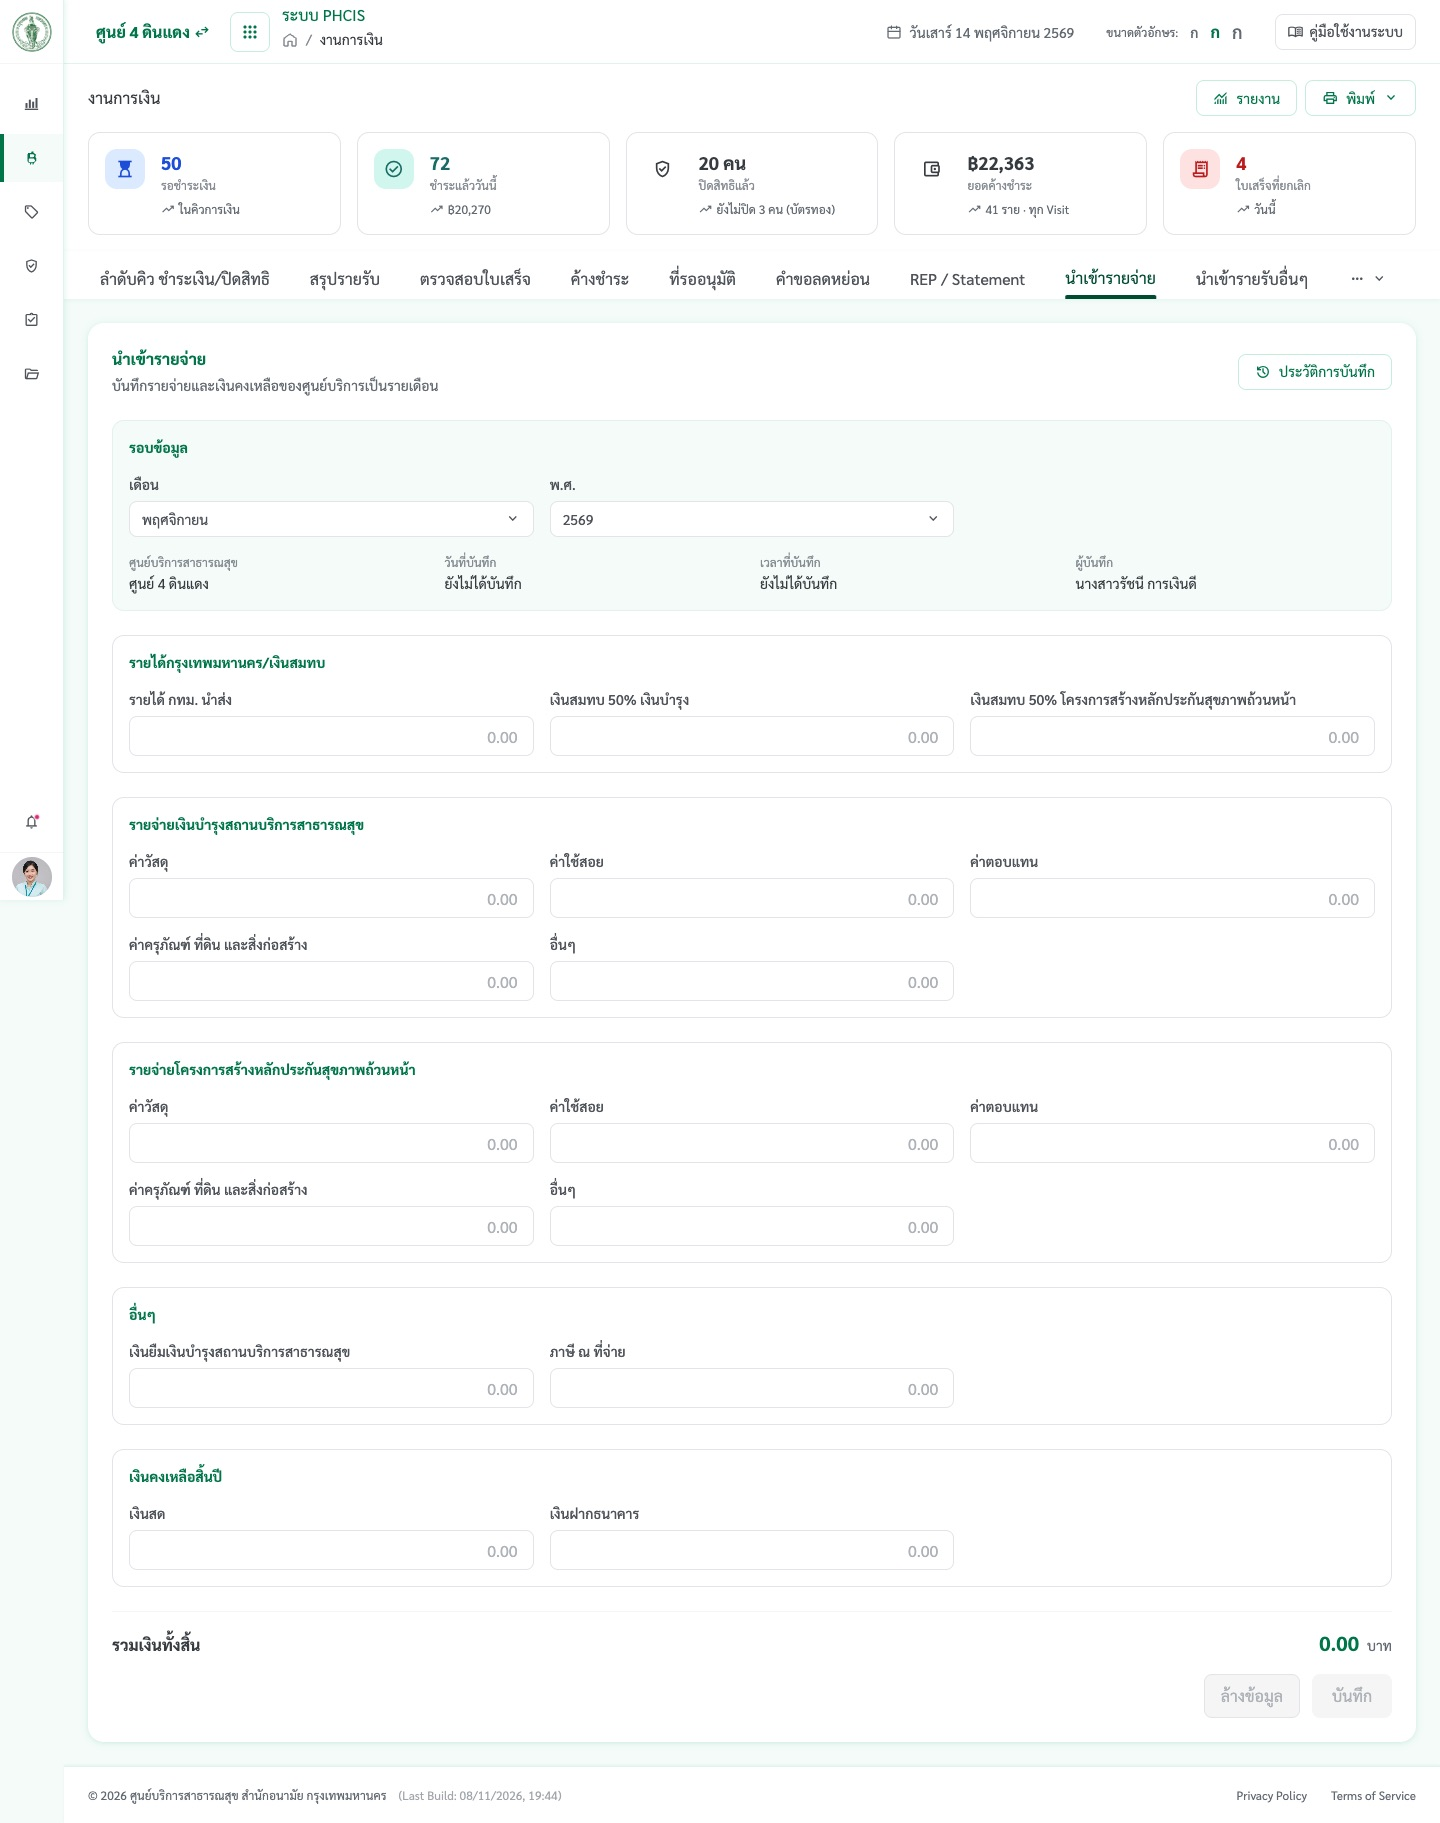
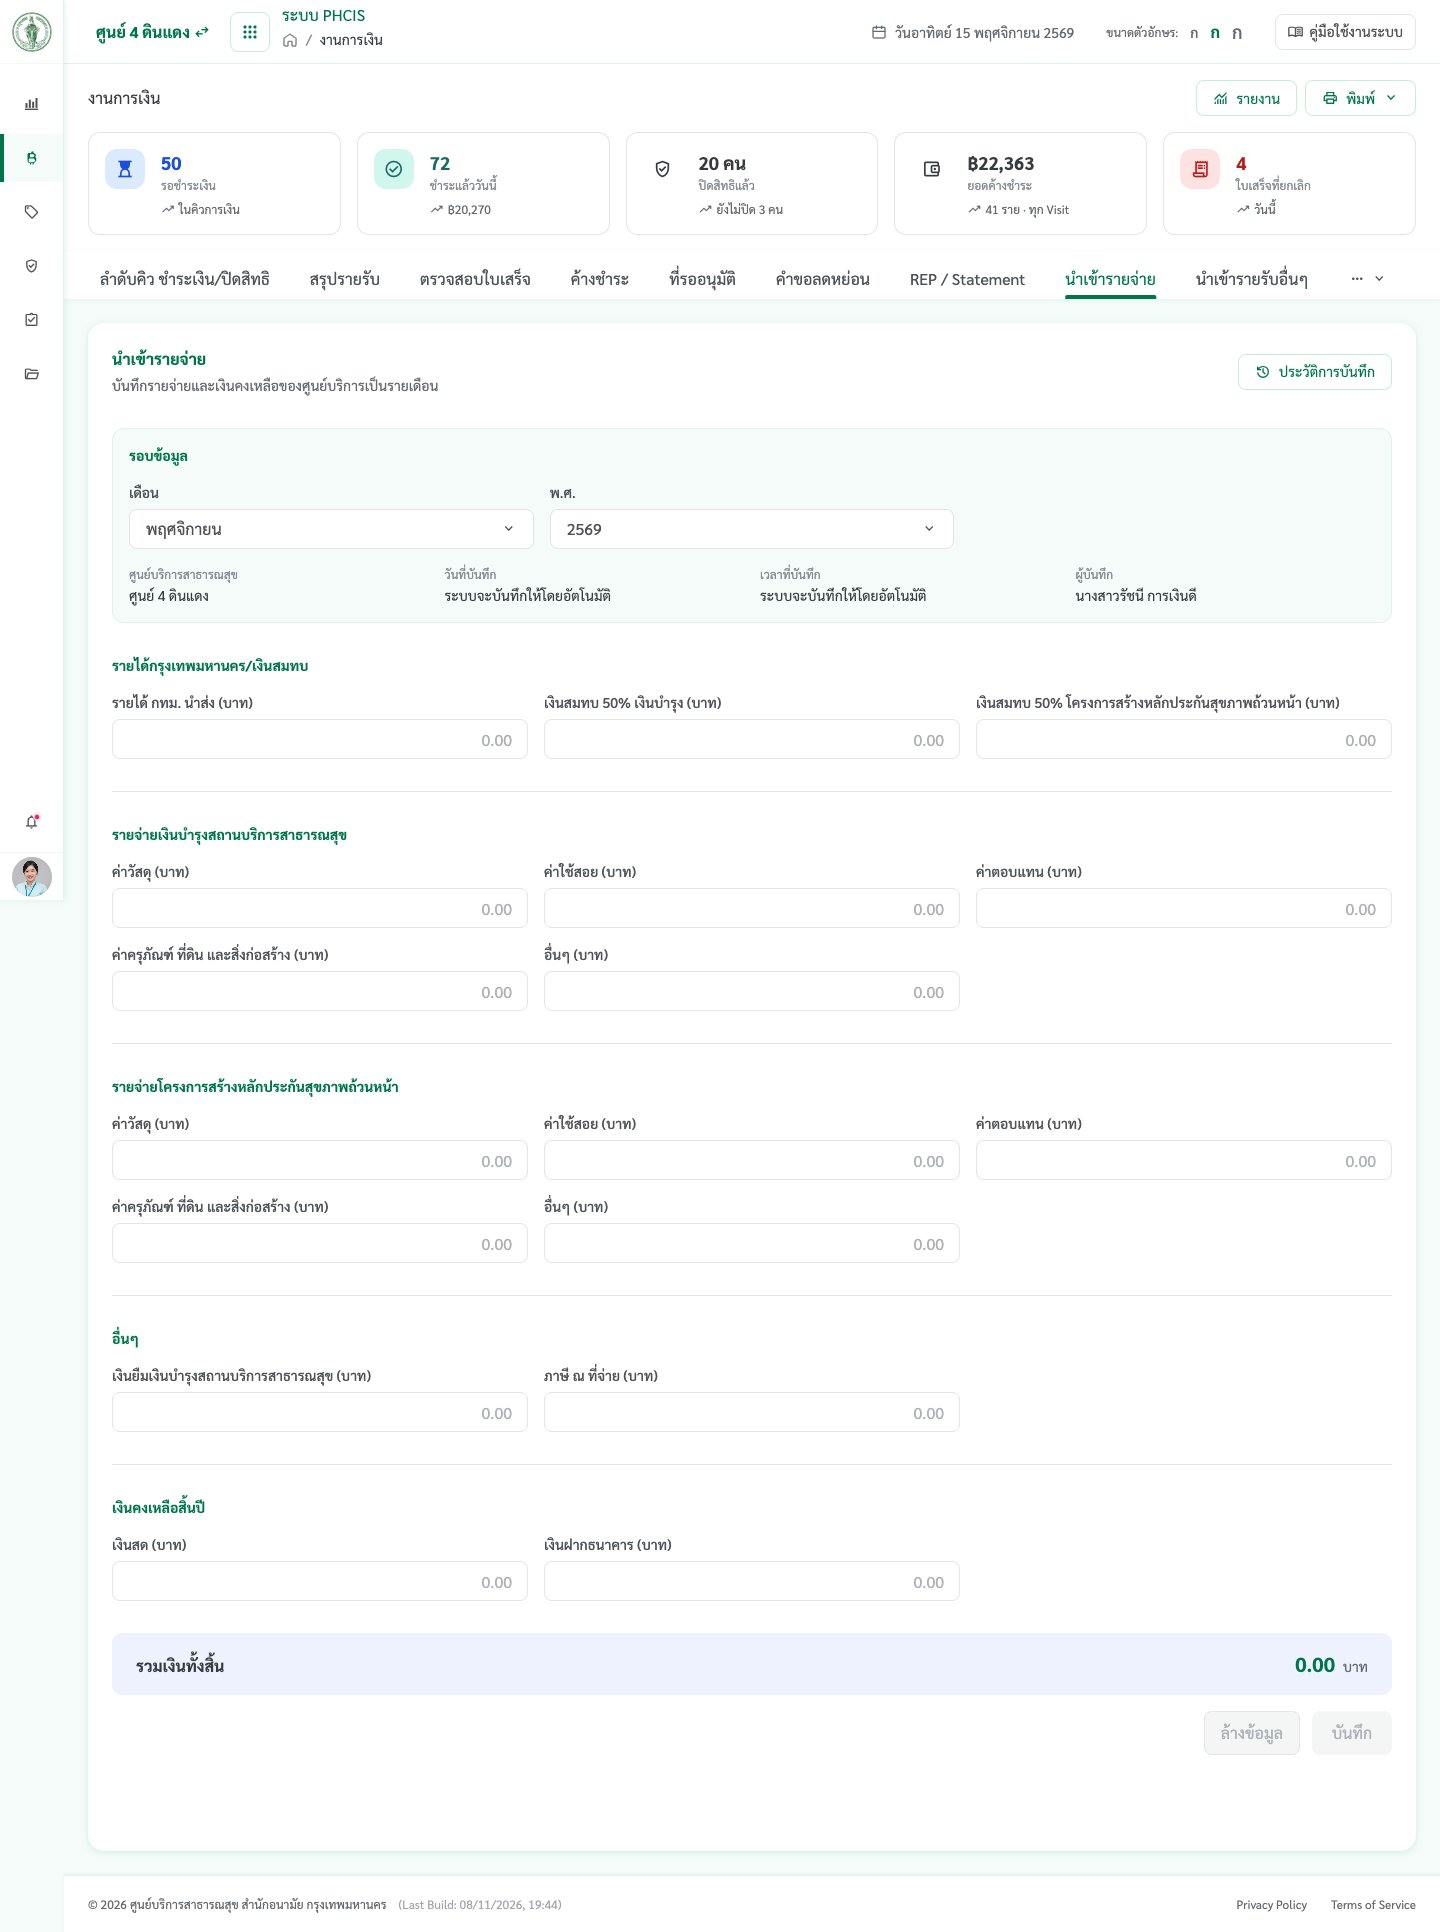
ทะเบียนปรับปรุง: ซ่อน dropdown คลินิก (มีใน side menu) · การเงิน ข้อ 18: ภาพฟอร์มนำเข้ารายจ่าย/รายรับอื่นๆ ใหม่ (ขีดคั่นกลุ่ม · รวมเงินพื้น indigo · เดือน/พ.ศ. สูงเท่าช่องเงิน) (ผู้ใช้ 15 พ.ย. 69)

diff --git a/tor-updates-nav.js b/tor-updates-nav.js
@@ -82,6 +82,8 @@
   };
   document.addEventListener('click', function (e) { if (!host.contains(e.target)) all.forEach(function (o) { o.close(); }); });
   var sc = makeSelect('คลินิก', 'tn-clinic');
+  /* ไม่แสดงตัวเลือกคลินิก — side menu มีรายการคลินิกอยู่แล้ว (ผู้ใช้ 15 พ.ย. 69) · คงไว้ภายในเพื่อกรองรายการวันที่ */
+  host.querySelector('#tn-clinic').parentElement.style.display = 'none';
   var sd = makeSelect('วันที่ปรับปรุง', 'tn-date');
   var datesOf = function (clinic) { return TOR_UPDATES.filter(function (r) { return r.clinic === clinic; }).map(function (r) { return { value: r.href, label: r.date + ' · ' + r.note }; }); };
   sc.set(clinics.map(function (c) { return { value: c, label: c }; }), current.clinic);
